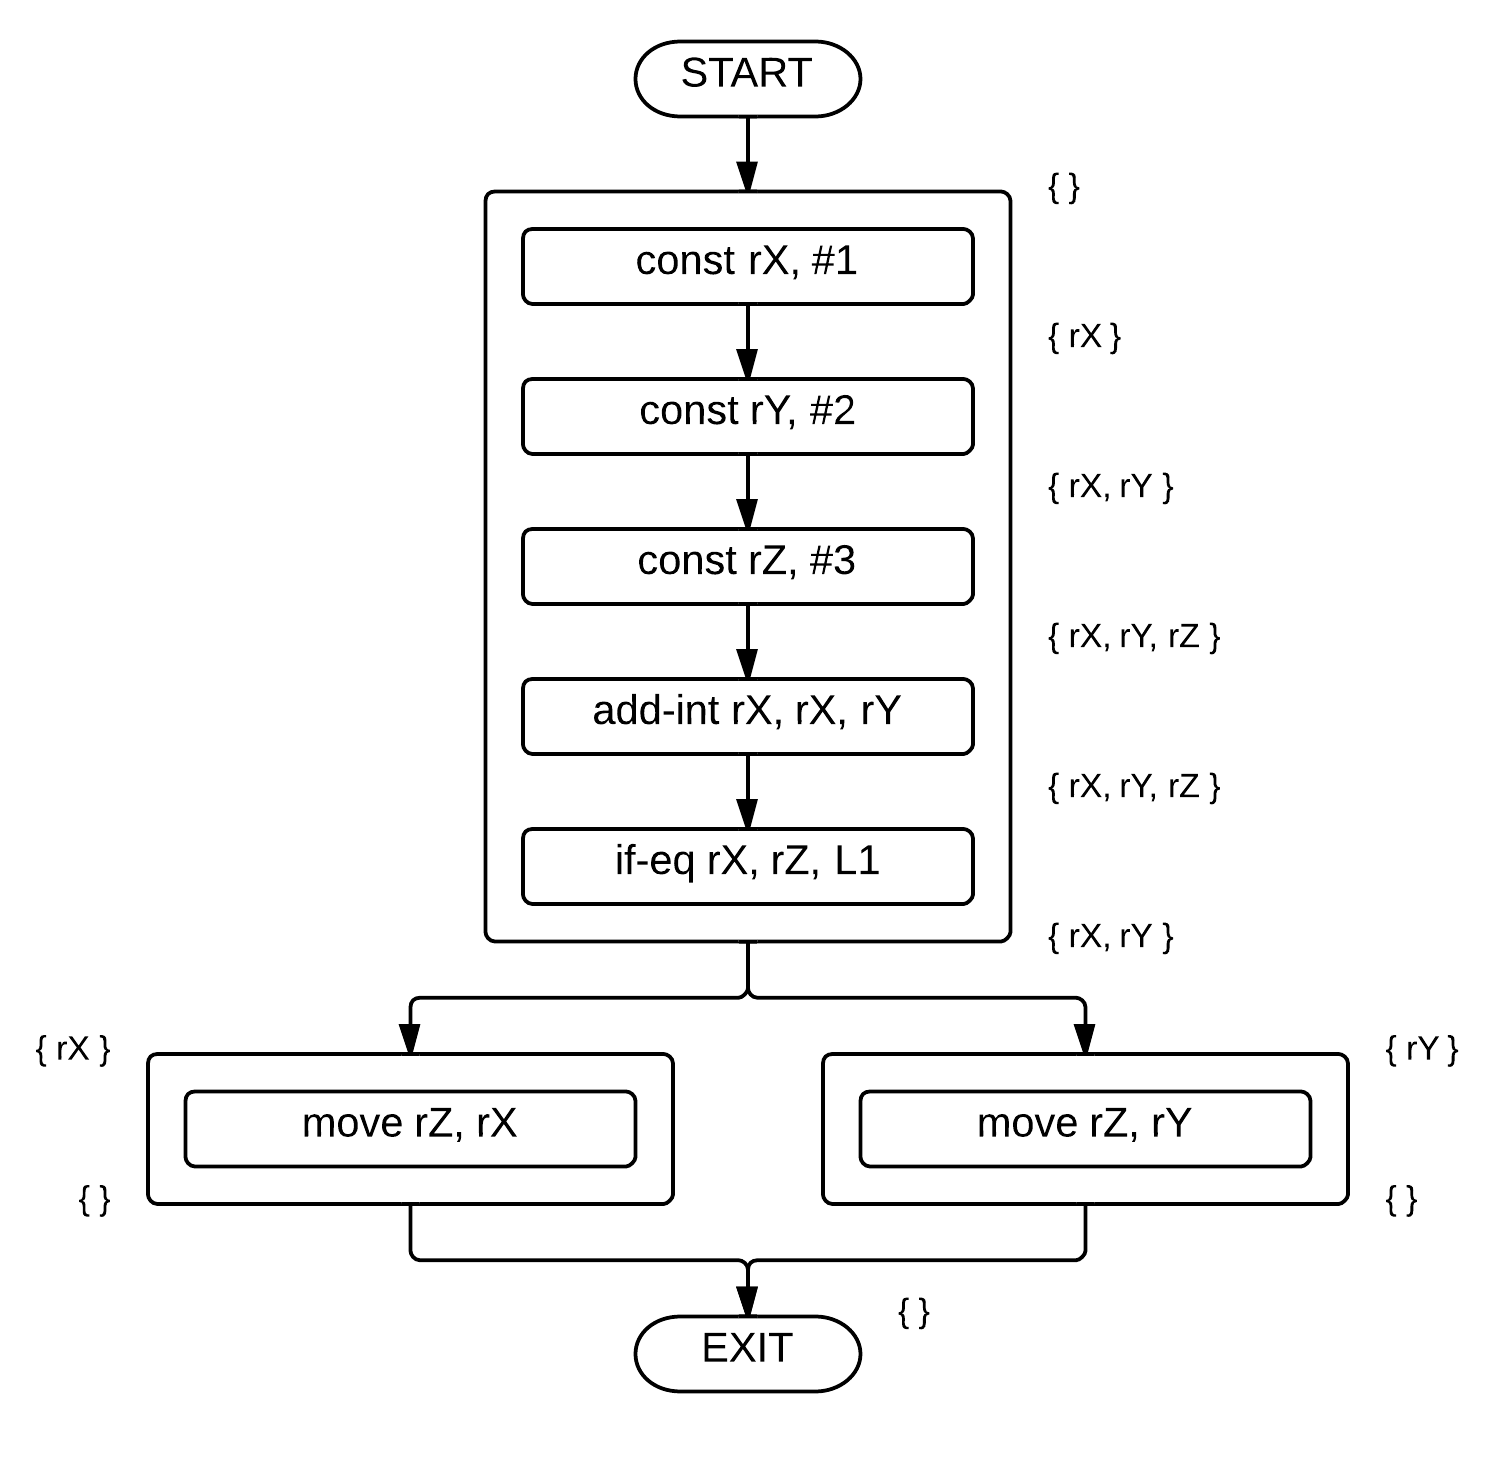
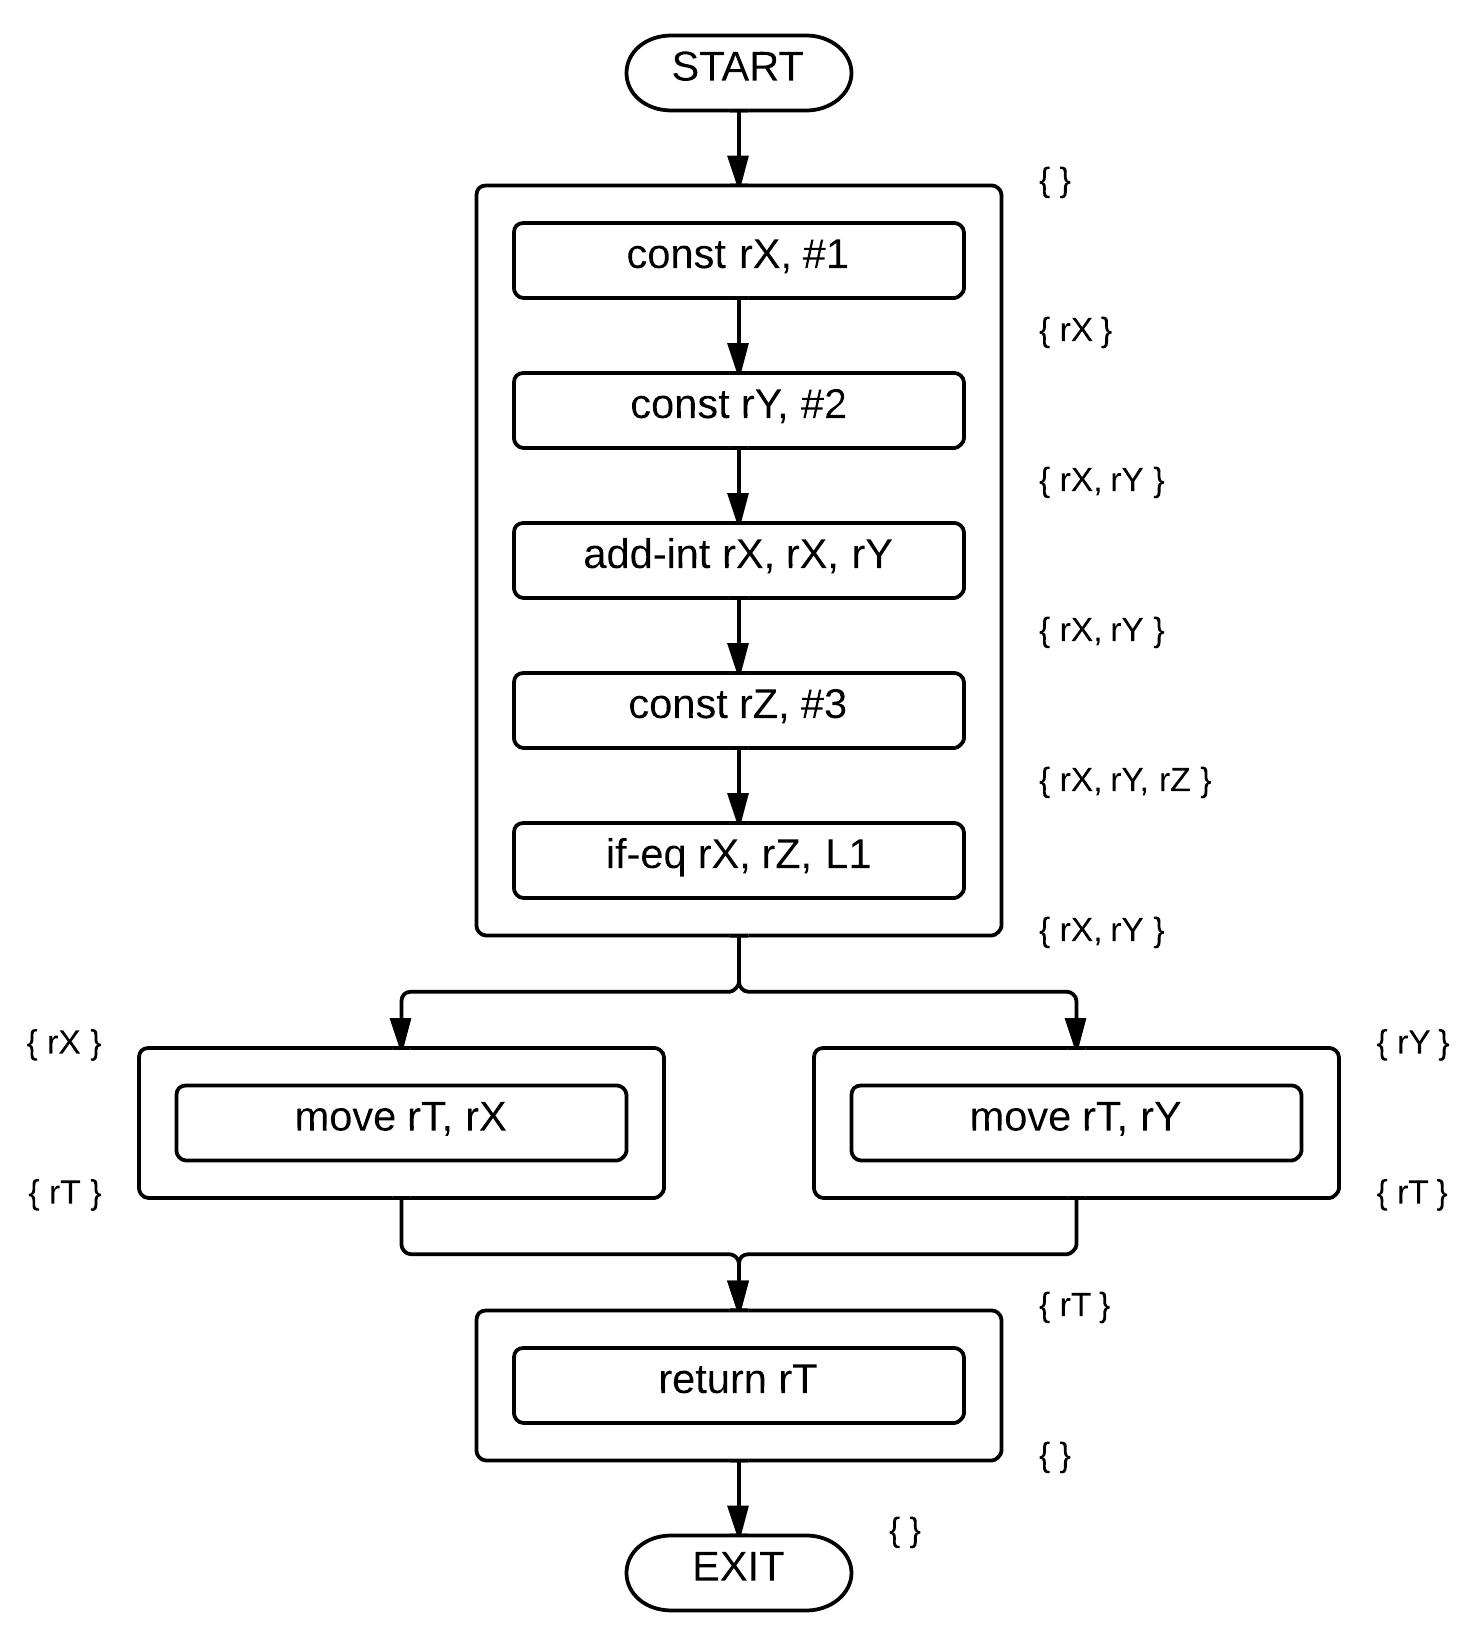
Modified LVA example diagram

diff --git a/diss.tex b/diss.tex
@@ -1068,7 +1068,7 @@ The general idea behind Live Variable Analysis is the propagation of information
 	\centerline{	
 		\includegraphics[width=0.8\textwidth]{figs/fig_implementation_lva.png}
 	}
-	\caption{Example of Live Variable Analysis performed on a simple program represented as a Control Flow Graph. !!! PRIDAT "RETURN Z" DO GRAFU!!!}
+	\caption{Example of Live Variable Analysis performed on a simple program represented as a Control Flow Graph.}
 	\label{fig:Implementation_LVA}
 \end{figure}
 
